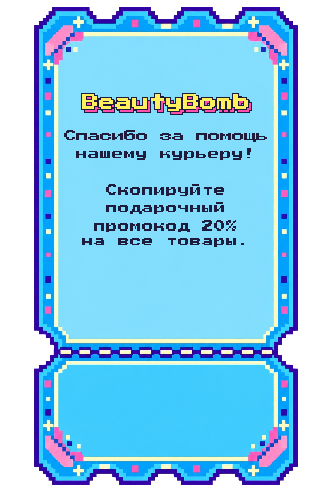
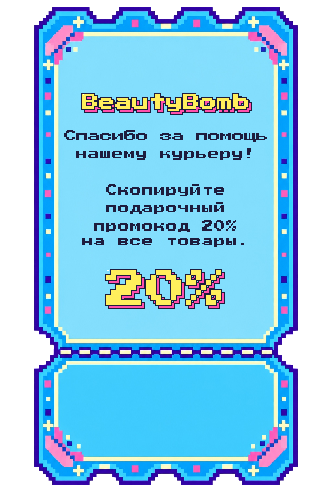
feat: add coupon discount emphasis

Changed region(s): [[0.3012, 0.5422, 0.6928, 0.6325]]

diff --git a/scripts/build_reward_coupon_v7.py b/scripts/build_reward_coupon_v7.py
@@ -30,6 +30,10 @@ RUNTIME_SIZE = (332, 498)
 TITLE_TEXT = "BeautyBomb"
 TITLE_TOP_LOGICAL_PX = 94
 TITLE_FONT_SIZE_LOGICAL_PX = 17
+DISCOUNT_TEXT = "20%"
+DISCOUNT_TOP_LOGICAL_PX = 270
+DISCOUNT_FONT_SIZE_LOGICAL_PX = 40
+MAX_DISCOUNT_WIDTH_LOGICAL_PX = 169
 INFO_LINES = (
     "Спасибо за помощь",
     "нашему курьеру!",
@@ -90,17 +94,22 @@ def colorize(mask: Image.Image, color: tuple[int, int, int, int]) -> Image.Image
     return layer
 
 
-def add_wordmark(master: Image.Image) -> dict[str, int]:
+def add_branded_text(
+    master: Image.Image,
+    text: str,
+    logical_top: int,
+    font_size_logical_px: int,
+) -> dict[str, int]:
     scale = master.width / RUNTIME_SIZE[0]
-    font = ImageFont.truetype(FONT_PATH, round(TITLE_FONT_SIZE_LOGICAL_PX * scale))
+    font = ImageFont.truetype(FONT_PATH, round(font_size_logical_px * scale))
     probe = ImageDraw.Draw(Image.new("L", (1, 1), 0))
-    bbox = probe.textbbox((0, 0), TITLE_TEXT, font=font)
+    bbox = probe.textbbox((0, 0), text, font=font)
     text_width = bbox[2] - bbox[0]
     text_height = bbox[3] - bbox[1]
     face = Image.new("L", master.size, 0)
     x = round((master.width - text_width) / 2 - bbox[0])
-    y = round(TITLE_TOP_LOGICAL_PX * scale - bbox[1])
-    ImageDraw.Draw(face).text((x, y), TITLE_TEXT, font=font, fill=255)
+    y = round(logical_top * scale - bbox[1])
+    ImageDraw.Draw(face).text((x, y), text, font=font, fill=255)
     face = threshold_mask(face)
 
     outline_radius = max(1, round(2 * scale))
@@ -122,22 +131,43 @@ def add_wordmark(master: Image.Image) -> dict[str, int]:
     highlight.rectangle(
         (
             x + round(scale),
-            round(TITLE_TOP_LOGICAL_PX * scale),
+            round(logical_top * scale),
             x + round(2 * scale),
-            round((TITLE_TOP_LOGICAL_PX + 1) * scale),
+            round((logical_top + 1) * scale),
         ),
         fill=(255, 255, 255, 255),
     )
     highlight.point(
-        (x + round(3 * scale), round(TITLE_TOP_LOGICAL_PX * scale)),
+        (x + round(3 * scale), round(logical_top * scale)),
         fill=PALETTE["cyan_light"],
     )
     return {
         "x": round(x / scale),
-        "y": TITLE_TOP_LOGICAL_PX,
+        "y": logical_top,
         "width": round(text_width / scale),
         "height": round(text_height / scale),
     }
+
+
+def add_wordmark(master: Image.Image) -> dict[str, int]:
+    return add_branded_text(
+        master,
+        TITLE_TEXT,
+        TITLE_TOP_LOGICAL_PX,
+        TITLE_FONT_SIZE_LOGICAL_PX,
+    )
+
+
+def add_discount_label(master: Image.Image) -> dict[str, int]:
+    bounds = add_branded_text(
+        master,
+        DISCOUNT_TEXT,
+        DISCOUNT_TOP_LOGICAL_PX,
+        DISCOUNT_FONT_SIZE_LOGICAL_PX,
+    )
+    if bounds["width"] > MAX_DISCOUNT_WIDTH_LOGICAL_PX:
+        raise RuntimeError("The reward discount label exceeds the BeautyBomb wordmark width")
+    return bounds
 
 
 def add_information_copy(master: Image.Image) -> dict[str, int]:
@@ -188,6 +218,7 @@ def main() -> None:
     master.putalpha(alpha)
     title_bounds = add_wordmark(master)
     information_bounds = add_information_copy(master)
+    discount_bounds = add_discount_label(master)
     assert_binary_alpha(master)
 
     MASTER.parent.mkdir(parents=True, exist_ok=True)
@@ -240,6 +271,14 @@ def main() -> None:
             "logicalBounds": information_bounds,
             "font": {"family": "Press Start 2P", "sizePx": INFO_FONT_SIZE_LOGICAL_PX},
             "align": "center",
+        },
+        "discountLabel": {
+            "text": DISCOUNT_TEXT,
+            "logicalBounds": discount_bounds,
+            "logicalTop": DISCOUNT_TOP_LOGICAL_PX,
+            "style": "same Press Start 2P yellow face, violet outline, pink extrusion, and cyan-white highlight as the coupon wordmark",
+            "font": {"family": "Press Start 2P", "sizePx": DISCOUNT_FONT_SIZE_LOGICAL_PX},
+            "maxWidthPx": MAX_DISCOUNT_WIDTH_LOGICAL_PX,
         },
         "build": {
             "buildScript": "scripts/build_reward_coupon_v7.py",

diff --git a/docs/PROJECT.md b/docs/PROJECT.md
@@ -100,6 +100,6 @@ The approved intro uses `UI-013` v3 for the Russian comic callout and `UI-014` f
 
 The existing pause flow now presents `UI-015` v2: a larger tail-free lavender comic callout that repeats the intro cloud's stepped body and pink extrusion while using the same local Press Start 2P font for `Не тормози! Нужно успеть вовремя :)`. Existing `ПРОДОЛЖИТЬ` and `ЗАНОВО` controls keep their implementation and pressed behavior, appearing below the copy inside the callout; pausing, resuming, restarting, keyboard handling, and gameplay authority are unchanged.
 
-The delivery finale keeps the deterministic route at `45,000 ms` and adds a separate `1,500 ms` presentation-only finish road after progress reaches 100%. Traffic scheduling ends `3,200 ms` before delivery so the last obstacle leaves naturally; the finish road disables spawning, collision, and lane input while road motion, courier drive frames, and bounded brand-color confetti continue. At delivery completion, the coherent city TileSprite switches from immutable route tile `ENV-004` to deterministic destination panorama `ENV-009` v3 while preserving the city scale, depth, and motion contract. The approved house architecture is generated into a complete foreground lot inside that one panorama, with neighboring buildings and a continuous shared sidewalk; the six-pixel doorstep interval extends the adjacent curb instead of revealing the sky. There is no independent house sprite, erased rectangle, or flat-sky backing plate. `CHR-003` v1 keeps its existing cubic fade-in and `700 ms` duration, but now appears at the house door (`307,276`) and finishes next to the doorstep (`319,284`) rather than entering from the road; the receiving anchor follows to `319,262`. The courier parks at `74,322` on the upper road edge. `PRD-003` still starts from a roof-local offset and flies to the recipient before `UI-016` v5 at `14,338` and `UI-017` at `180,466` appear. Claiming then opens the interactive `UI-018` v7 coupon with the local fictional code `XQZ-20476`, an accessible clipboard control in the lower tear-off, and the unchanged restart action. The coupon uses a larger native `332 × 498` composition with a 14 px horizontal and 71 px vertical logical safety margin; its explanatory bitmap copy is rendered at 12 px before the single nearest-neighbor export for clear reading at every fitted canvas size.
+The delivery finale keeps the deterministic route at `45,000 ms` and adds a separate `1,500 ms` presentation-only finish road after progress reaches 100%. Traffic scheduling ends `3,200 ms` before delivery so the last obstacle leaves naturally; the finish road disables spawning, collision, and lane input while road motion, courier drive frames, and bounded brand-color confetti continue. At delivery completion, the coherent city TileSprite switches from immutable route tile `ENV-004` to deterministic destination panorama `ENV-009` v3 while preserving the city scale, depth, and motion contract. The approved house architecture is generated into a complete foreground lot inside that one panorama, with neighboring buildings and a continuous shared sidewalk; the six-pixel doorstep interval extends the adjacent curb instead of revealing the sky. There is no independent house sprite, erased rectangle, or flat-sky backing plate. `CHR-003` v1 keeps its existing cubic fade-in and `700 ms` duration, but now appears at the house door (`307,276`) and finishes next to the doorstep (`319,284`) rather than entering from the road; the receiving anchor follows to `319,262`. The courier parks at `74,322` on the upper road edge. `PRD-003` still starts from a roof-local offset and flies to the recipient before `UI-016` v5 at `14,338` and `UI-017` at `180,466` appear. Claiming then opens the interactive `UI-018` v7 coupon with the local fictional code `XQZ-20476`, an accessible clipboard control in the lower tear-off, and the unchanged restart action. The coupon uses a larger native `332 × 498` composition with a 14 px horizontal and 71 px vertical logical safety margin; its explanatory bitmap copy is rendered at 12 px before the single nearest-neighbor export for clear reading at every fitted canvas size. A large 40 px `20%` reward value uses the same compact branded pixel treatment as the `BeautyBomb` heading while staying entirely above the coupon perforation.
 
 The corrected vehicle scale and traffic clearance gates are approved. The active courier is the clean `veh-001-courier-clean-static-v6.png` / `veh-001-courier-clean-drive-v7.png` set derived from the versioned `v8` flip-top master: its rear white cap is a one-piece snap-open cosmetic cap with a visible seam, hinge, and recessed thumb-lift; both the van side and roof tube contain no text, logos, icons, or decorative prints. The four-frame drive sheet preserves the fixed `208 × 160` canvas, `0.5` base scale, world size, wheel baselines, origin, and body-only collider. `PRD-003 v2` derives from that same master, so the cream handed to the recipient has the identical cap. `ENV-010` retains its `y=520` top edge and `2 px` road overlap but is rendered at `360 × 122`; the final `2 px` are clipped beyond the logical viewport and prevent the lower rounding gap. The host page presents the logical canvas at the smaller of its `360 px` maximum, available width, and available height × `9/16`, keeping a `12 px` surround so desktop zoom and mobile browser chrome cannot crop controls. All gameplay geometry, controls, collider behavior, state transitions, and the existing environment lifecycle are unchanged.

diff --git a/docs/ASSET_MANIFEST.md b/docs/ASSET_MANIFEST.md
@@ -143,7 +143,7 @@ The owner approved `visual-references/ui-005-intro-composition-v1.png` and its a
 
 `DST-001`, `CHR-001`, and `CHR-003` retain separate immutable generated masters. The integrated recipient is `CHR-003` v1, built from the compact approved `112 × 176` master `visual-references/chr-003-lowpoly-recipient-master-v1.png`; `scripts/build_delivery_girl_lowpoly_v1.py` verifies its SHA-256 and performs one nearest-neighbor export to the final `28 × 44` canvas, avoiding repeated or fractional resizing. The previous `CHR-001` assets remain versioned in the repository and are not overwritten. The standalone house remains a design reference only. `ENV-009` v3 is derived by `scripts/build_delivery_destination_city_v3.py` from the immutable unified destination master `visual-references/env-009-delivery-destination-city-alpha-master-v2.png`; that master already contains the house as a complete city lot. The runtime export performs one nearest-neighbor resize, then copies the immediately adjacent approved curb sample into only the `42 × 6` doorstep interval with opaque alpha, so no sky-colored gap remains and no facade is regenerated. `UI-016` v5 is authored directly on its final pixel grid by `scripts/build_delivery_finale_ui_v5.py`; its existing tail geometry remains spatially aligned because `CHR-003` retains the approved `290,324` placement in this stage. The tail keeps the deep-violet outline and lavender interior but receives no pink shadow; the body retains its existing pink extrusion. `UI-017` remains the v1 three-frame sheet from `scripts/build_delivery_finale_ui_v1.py`. Both use the repository-local Press Start 2P source and no runtime font. `UI-018` v2 and its former live brand layer remain versioned for history but are no longer active. `PRD-003` is built by `scripts/build_delivery_product_v1.py` from the product region of the immutable `veh-001-courier-clean-concept-v7.png` master, not from a screenshot or runtime sprite. Finale timings, anchors, and depth ordering are adjacent in `src/game/content/deliveryFinale.json`.
 
-`UI-018` v7 retains the owner-supplied `1024 × 1536` JPEG and the v5 exterior-removal contract as immutable input. `scripts/build_reward_coupon_v7.py` writes a new binary-alpha master and one nearest-neighbor `332 × 498` runtime export: the coupon leaves `14 px` left/right and `71 px` top/bottom logical clearance at center `(180,320)`. Its `BeautyBomb` wordmark is redrawn at 17 px and the seven-line explanatory Press Start 2P copy at 12 px, grouped into complete phrases with one deliberate blank spacer between the thank-you and redemption instruction. The longest line is `204 px`, centered with `64 px` clearance from the coupon canvas; it remains inside the unornamented central surface. The live code row stays inside the lower tear-off as a `122 × 44` field at `(154,484)` and a `44 × 44` copy control at `(246,484)` with a `48 × 48` interaction target. Clipboard fallback, confirmation, trigger, and cleanup are unchanged.
+`UI-018` v7 retains the owner-supplied `1024 × 1536` JPEG and the v5 exterior-removal contract as immutable input. `scripts/build_reward_coupon_v7.py` writes a new binary-alpha master and one nearest-neighbor `332 × 498` runtime export: the coupon leaves `14 px` left/right and `71 px` top/bottom logical clearance at center `(180,320)`. Its `BeautyBomb` wordmark is redrawn at 17 px and the seven-line explanatory Press Start 2P copy at 12 px, grouped into complete phrases with one deliberate blank spacer between the thank-you and redemption instruction. The longest line is `204 px`, centered with `64 px` clearance from the coupon canvas; it remains inside the unornamented central surface. A large `20%` appears directly beneath that copy in the exact wordmark treatment at 40 px; its build gate rejects any width greater than the 169 px wordmark and its `y=270` placement preserves the gap to the lower tear-off. The live code row stays inside the lower tear-off as a `122 × 44` field at `(154,484)` and a `44 × 44` copy control at `(246,484)` with a `48 × 48` interaction target. Clipboard fallback, confirmation, trigger, and cleanup are unchanged.
 
 ## Batch F — later prize system
 

diff --git a/docs/DECISIONS.md b/docs/DECISIONS.md
@@ -100,6 +100,7 @@ Keep this file short. Record only decisions that change product behavior, archit
 | D-073 | Replace the courier tube's threaded cap with a versioned flip-top master and derive every live product variant from it. | Immutable `v7` remains untouched. `v8` replaces only the former rear cap region with a broad one-piece white flip-top, a direct tube seam, hinge line, and recessed thumb-lift. Static `v6`, drive `v7`, intro idle `v2`, and transfer product `PRD-003 v2` use only that master with their existing canvas, origin, collider, frame cadence, and one nearest-neighbor export contracts preserved. |
 | D-074 | Fit the complete portrait game into the actual browser viewport and overscan the lower cobblestone by two clipped pixels. | The host CSS now sizes the fixed `9:16` canvas from the smaller of its `360 px` maximum, available width, and available height less its `12 px` surround, so desktop zoom and mobile browser chrome cannot crop controls. `ENV-010` retains its `y=520` top edge and `2 px` road overlap but renders `122 px` high; its final `2 px` are clipped below `y=640`, removing the rounding gap without moving road, buttons, or input targets. |
 | D-075 | Enlarge the reward coupon and its internal hierarchy for readable final-screen copy. | `UI-018` v7 is a new `332 × 498` native coupon at the unchanged logical center `(180,320)`, retaining `14 px` horizontal and `71 px` vertical screen clearance. Its wordmark rises from 15 to 17 px and the black explanatory Press Start 2P copy from 9 to 12 px in the versioned source build. The message uses complete phrase-level lines with one spacer and a maximum width of 204 px, kept on the unornamented central coupon surface, then completes one nearest-neighbor export. The lower tear-off keeps its same code/copy behavior but increases to a `122 × 44` code field, a `44 × 44` copy visual, and a `48 × 48` touch target. |
+| D-076 | Add a large discount value to the coupon without compromising its upper/lower safe zones. | `UI-018` v7 now renders `20%` at 40 px in the same Press Start 2P yellow/violet/pink/cyan treatment as `BeautyBomb`, immediately below the explanatory copy at `y=270`. The source builder rejects a discount label wider than the 169 px wordmark; the resulting label remains wholly above the perforation and lower tear-off. |
 
 ## Open production questions
 
